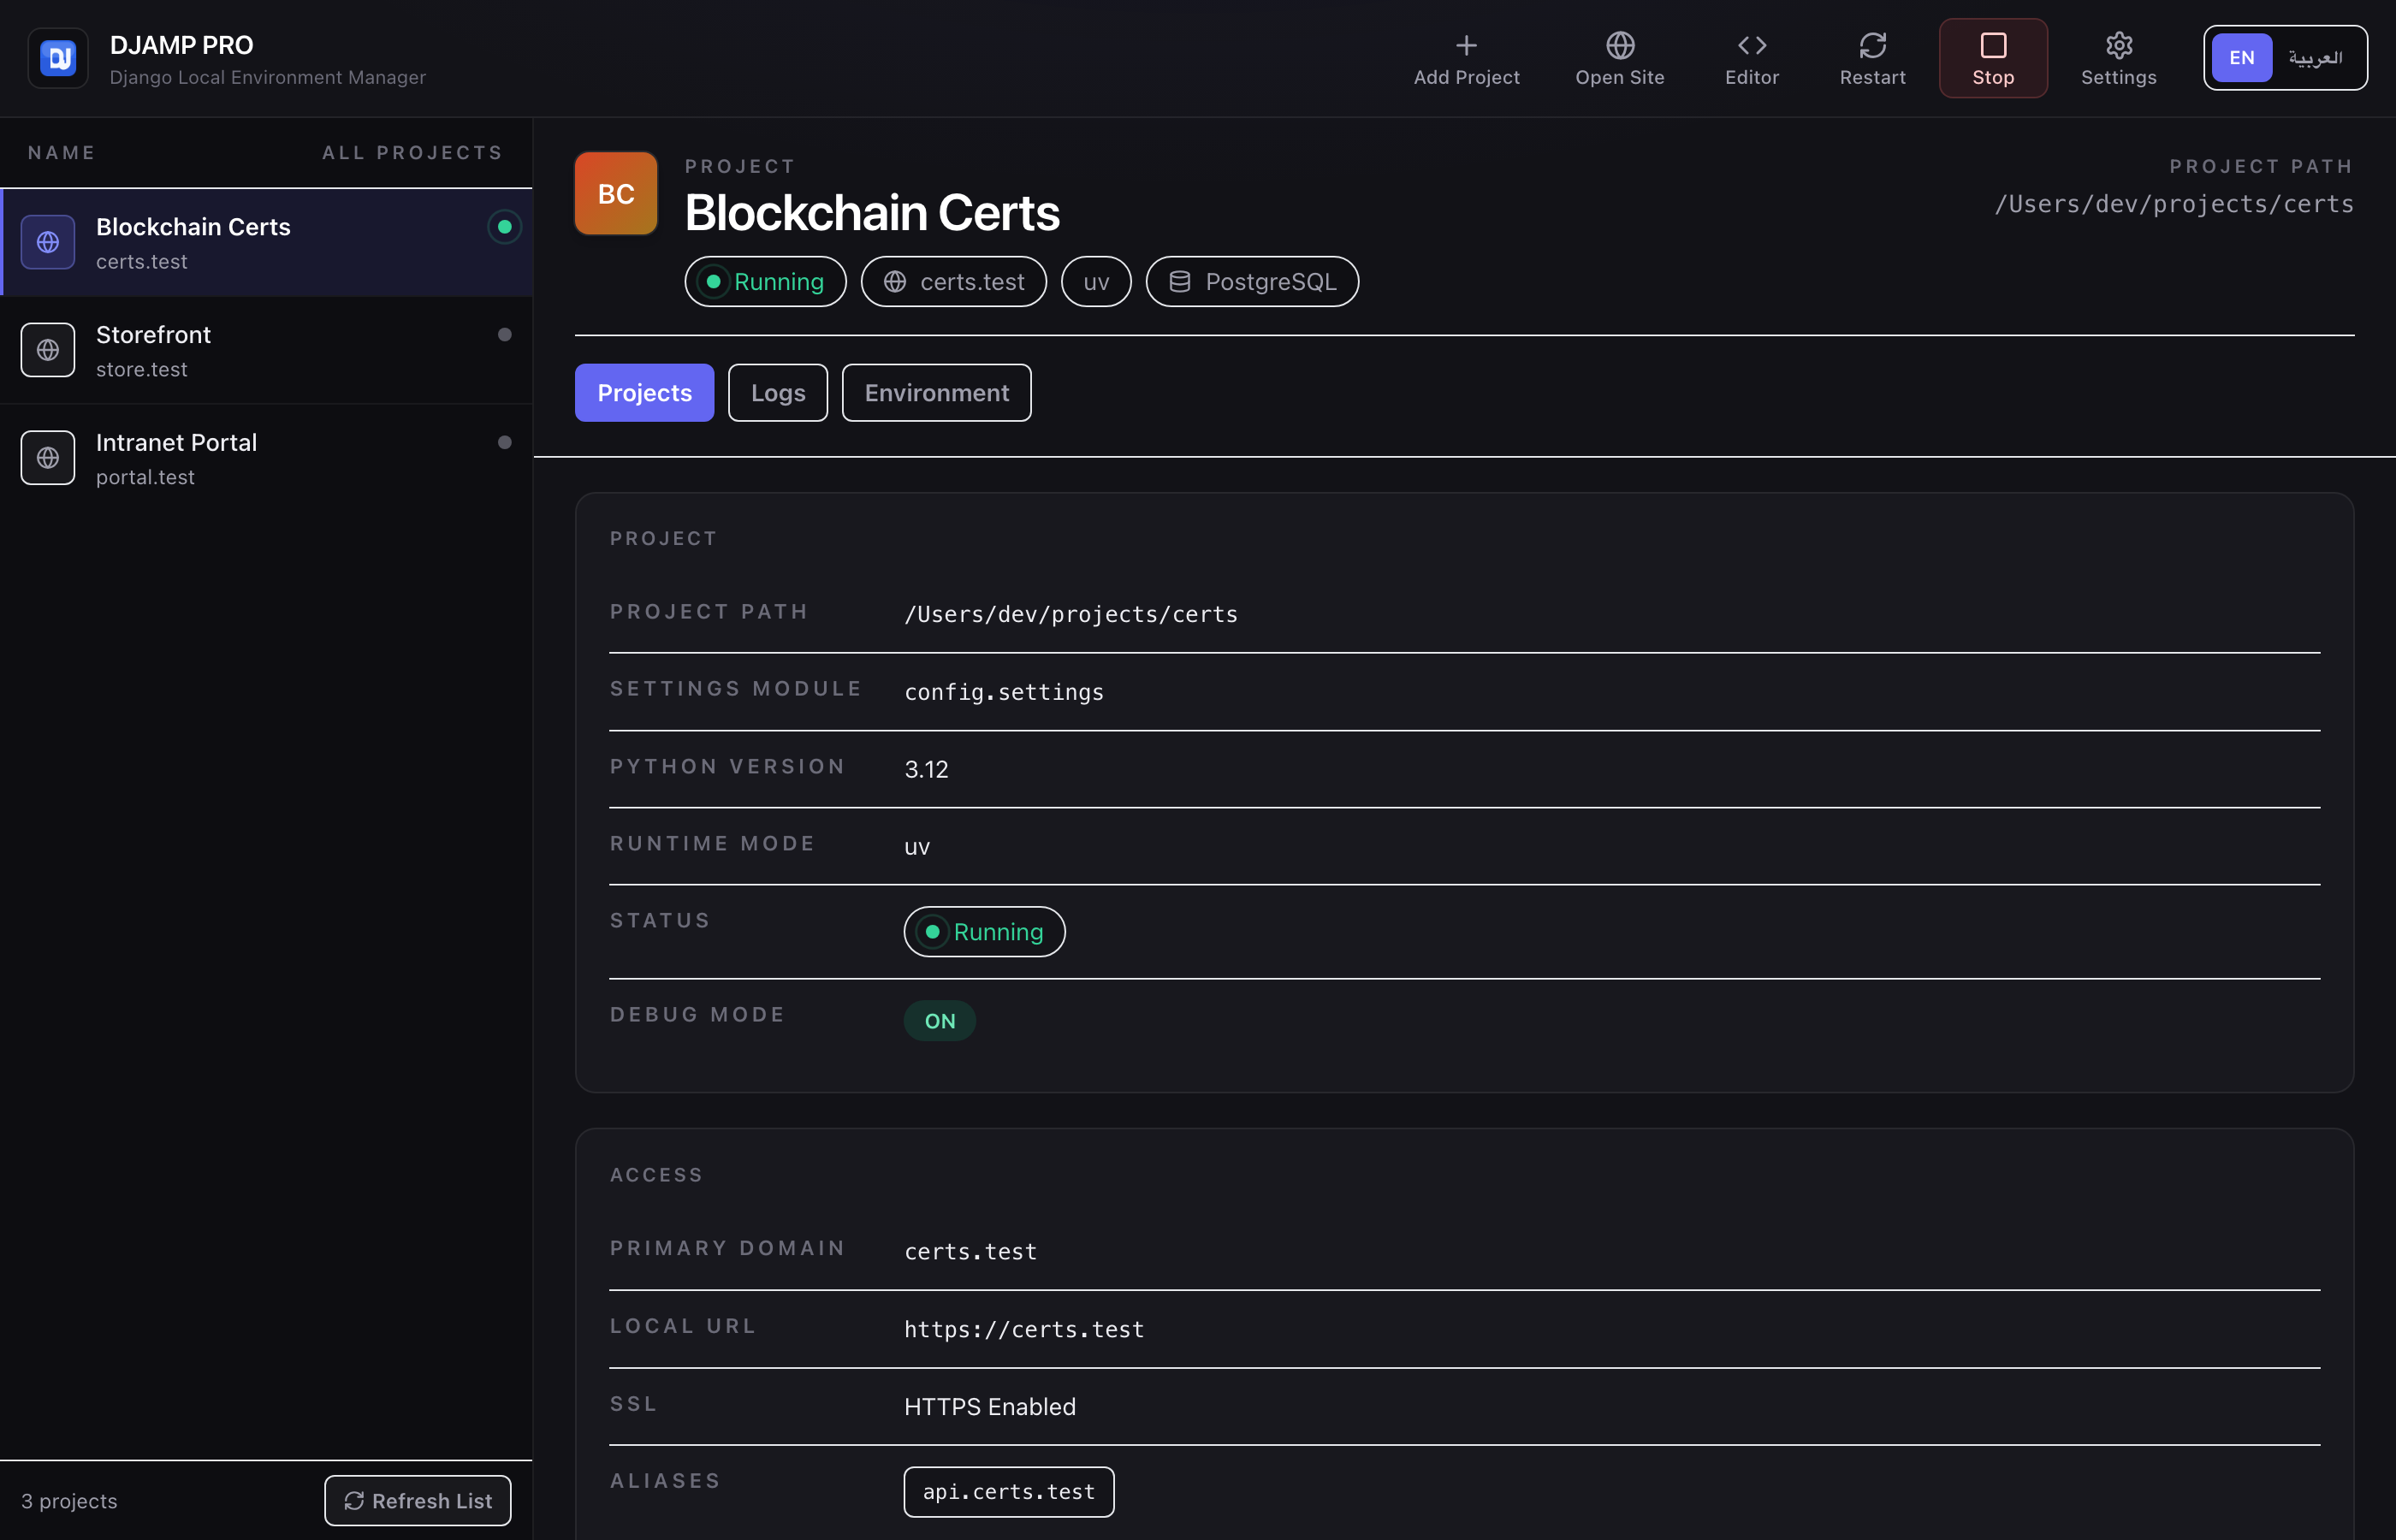
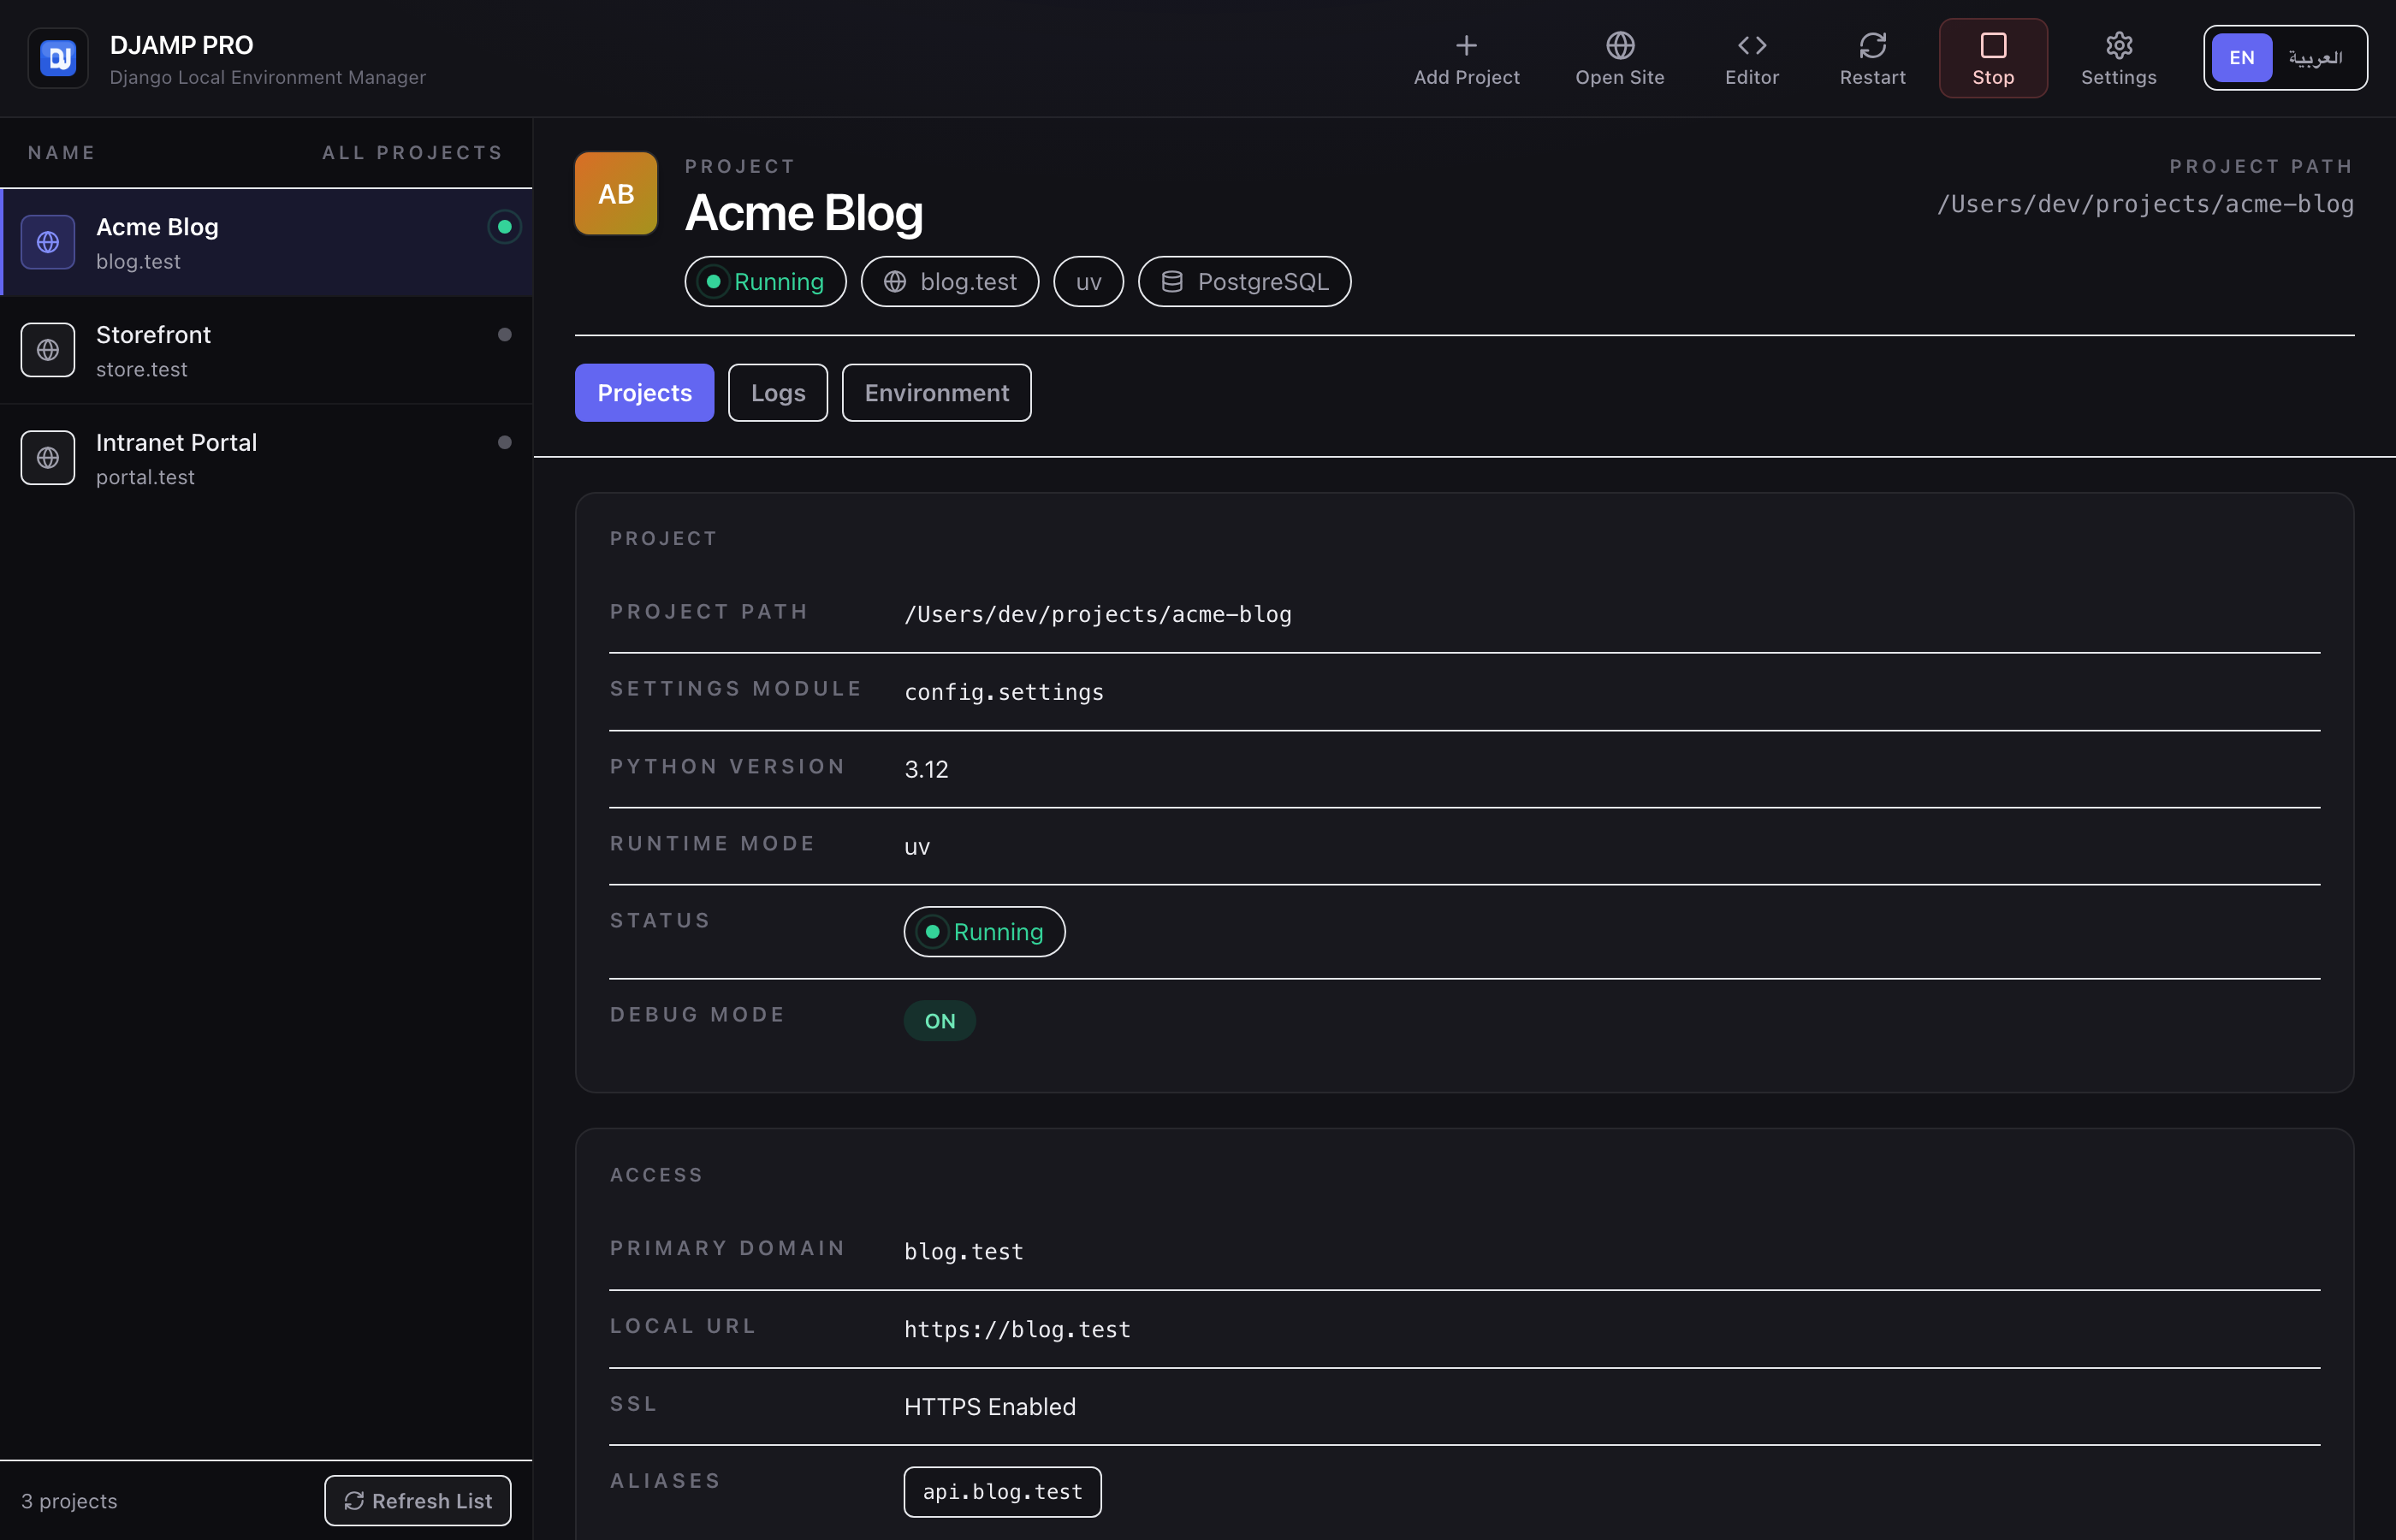
chore(desktop): use fully fictional names in mock data and screenshots
Replace demo fixtures and a wizard placeholder that echoed a real
project's naming with generic fictional ones, and regenerate the README
hero screenshot accordingly.

diff --git a/apps/desktop/src/services/mock.ts b/apps/desktop/src/services/mock.ts
@@ -42,10 +42,10 @@ function makeProject(overrides: Partial<Project>): Project {
 
 const projects: Project[] = [
   makeProject({
-    name: 'Blockchain Certs',
-    domain: 'certs.test',
-    path: '/Users/dev/projects/certs',
-    aliases: ['api.certs.test'],
+    name: 'Acme Blog',
+    domain: 'blog.test',
+    path: '/Users/dev/projects/acme-blog',
+    aliases: ['api.blog.test'],
     status: 'running',
   }),
   makeProject({

diff --git a/apps/desktop/src/components/AddProjectModal.tsx b/apps/desktop/src/components/AddProjectModal.tsx
@@ -376,7 +376,7 @@ export default function AddProjectModal({ onClose, onAdd }: AddProjectModalProps
                         type="text"
                         value={formData.condaEnv}
                         onChange={(event) => setFormData({ ...formData, condaEnv: event.target.value })}
-                        placeholder="blockchain"
+                        placeholder="myenv"
                         className="mamp-input"
                       />
                     </div>